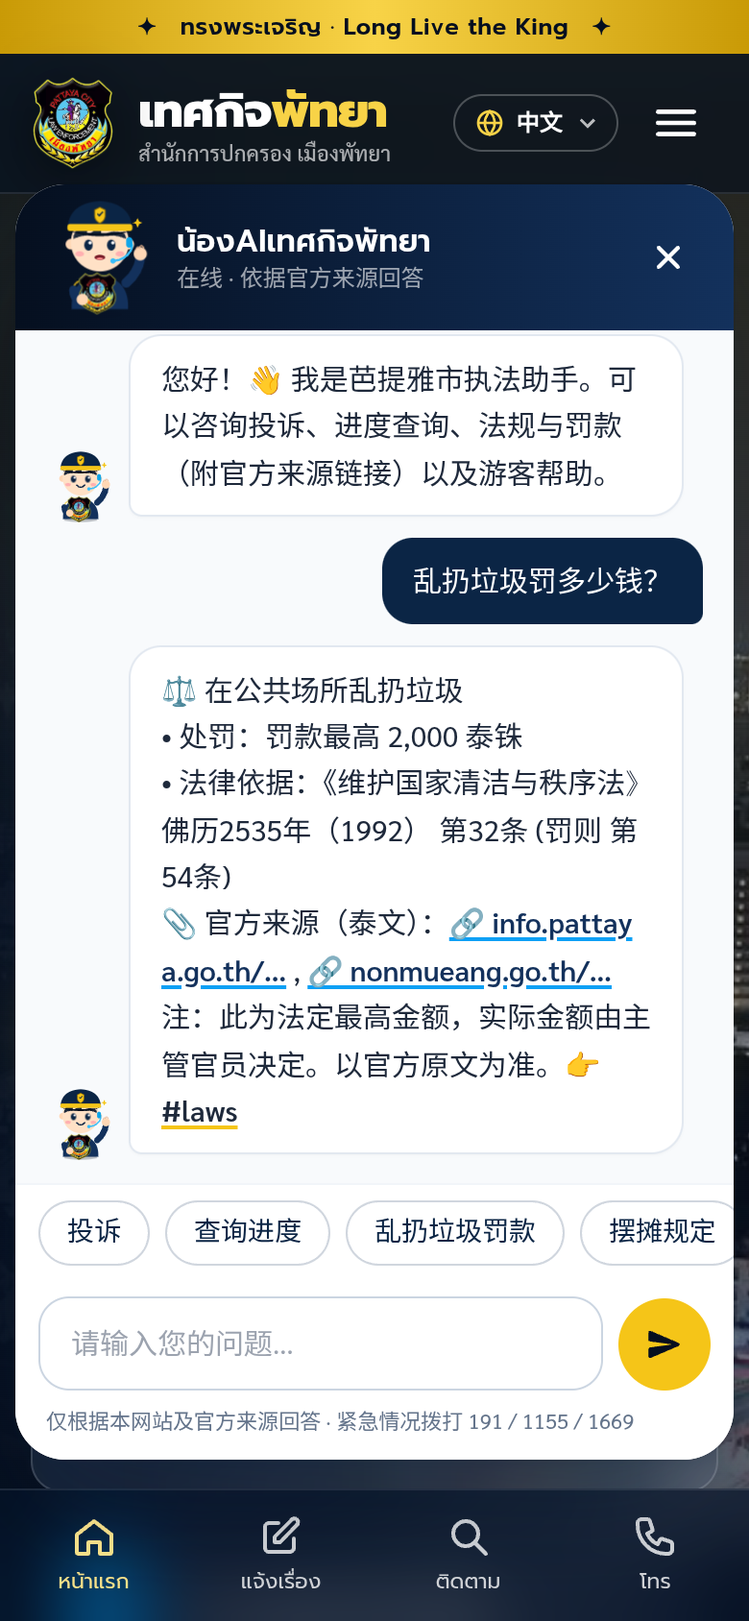
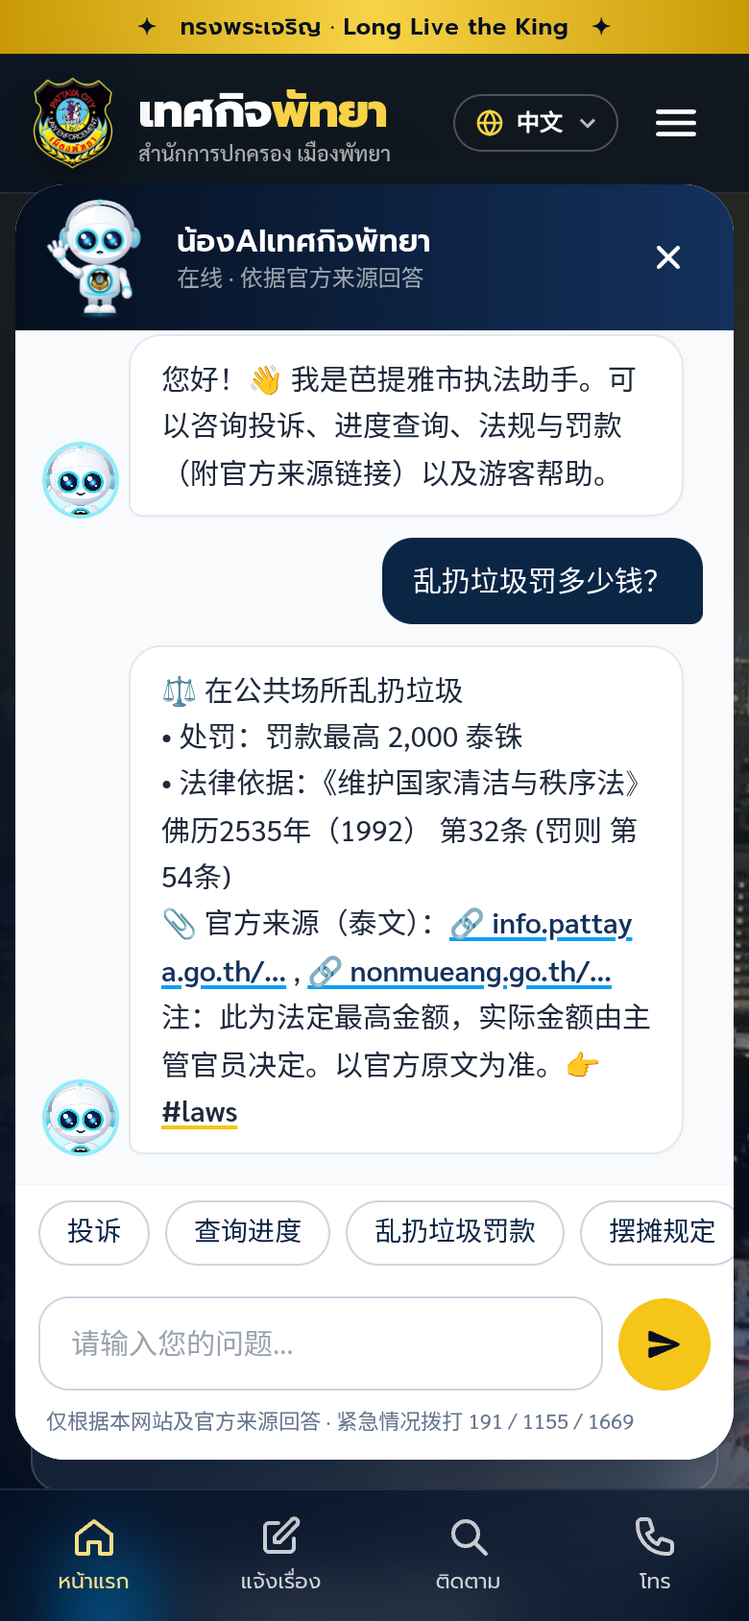
มาสคอตใหม่: หุ่นยนต์น้องAI ต้นฉบับ (SVG หลายเลเยอร์ + แอนิเมชัน) พร้อมตราโล่ที่หน้าอก + mascot.png สำหรับบับเบิลแชท; ปรับการจับคู่คำถามอังกฤษหลายคำ

diff --git a/assets/mascot.js b/assets/mascot.js
@@ -1,47 +1,135 @@
-/* น้องAIเทศกิจพัทยา — มาสคอตต้นฉบับ (ออกแบบใหม่ ไม่ได้ลอกตัวละครของแบรนด์ใด) วาดด้วย SVG + แอนิเมชัน CSS
- * TKPMascot.svg(logoUrl, extraClass) → string   คลาส: wave (โบกมือ) · talking (ขยับปาก) · static (ไม่ลอยขึ้นลง)
- * ตัวละครสวมหมวกเจ้าหน้าที่ ใส่หูฟังผู้ช่วย AI และถือโล่ตราเทศกิจพัทยา (ภาพตราจริงจาก site.logo) */
+/* น้องAIเทศกิจพัทยา — มาสคอตหุ่นยนต์ต้นฉบับ (ออกแบบใหม่ทั้งหมด ไม่ได้ลอก/ตามรอยภาพใด) วาดด้วย SVG หลายเลเยอร์ + แอนิเมชัน CSS
+ * TKPMascot.svg(logoUrl, extraClass) → string
+ *   คลาสเสริม: wave (โบกมือ) · talking (ขยับปาก/ตาเรืองแสงขณะตอบ) · static (หยุดลอย/เอียงหัว)
+ *   แอนิเมชันพื้นฐาน: ลอยขึ้นลง · กะพริบตา · เอียงหัว · ไฟอก/ตาเรืองแสงเป็นจังหวะ · hover = โบกมือ + เอียงหัว + ตายิ้ม
+ * ตราโล่เทศกิจพัทยาที่หน้าอกใช้ภาพจริงจาก site.logo (assets/logo.png) */
 (function () {
   'use strict';
+  var n = 0;
   function esc(s) { return String(s || '').replace(/[&<>"']/g, function (c) { return { '&': '&amp;', '<': '&lt;', '>': '&gt;', '"': '&quot;', "'": '&#39;' }[c]; }); }
+
+  var CSS = [
+    '.mascot{overflow:visible;display:block}',
+    '.mascot *{transform-box:view-box}',
+    '.mascot .m-bob{animation:tmBob 3.6s ease-in-out infinite}',
+    '.mascot .m-shadow{transform-origin:80px 184px;animation:tmShadow 3.6s ease-in-out infinite}',
+    '.mascot .m-head{transform-origin:80px 110px;animation:tmTilt 7s ease-in-out infinite}',
+    '.mascot .m-eye{transform-box:fill-box;transform-origin:center;animation:tmBlink 5s infinite}',
+    '.mascot .m-eye2{animation-delay:.04s}',
+    '.mascot .m-glow{animation:tmGlow 2.6s ease-in-out infinite}',
+    '.mascot .m-arm{transform-origin:47px 121px}',
+    '.mascot .m-arm2{transform-origin:113px 121px;animation:tmSway 3.6s ease-in-out infinite}',
+    '.mascot .m-talk,.mascot .m-happy{opacity:0}',
+    '.mascot.wave .m-arm{animation:tmWave .42s ease-in-out 6 alternate}',
+    '.mascot.talking .m-smile{opacity:0}',
+    '.mascot.talking .m-talk{opacity:1;transform-box:fill-box;transform-origin:center top;animation:tmTalk .16s ease-in-out infinite alternate}',
+    '.mascot.talking .m-glow{animation-duration:.7s}',
+    '.mascot.talking .m-iris{transform-box:fill-box;transform-origin:center;animation:tmIris .32s ease-in-out infinite alternate}',
+    '.mascot.static .m-bob,.mascot.static .m-shadow,.mascot.static .m-head,.mascot.static .m-arm2{animation:none}',
+    '.mascot:hover .m-arm,#chatFab:hover .mascot .m-arm{animation:tmWave .42s ease-in-out 4 alternate}',
+    '.mascot:hover .m-head,#chatFab:hover .mascot .m-head{animation:tmHover .9s ease-in-out both}',
+    '.mascot:hover .m-eyeball,#chatFab:hover .mascot .m-eyeball{opacity:0}',
+    '.mascot:hover .m-happy,#chatFab:hover .mascot .m-happy{opacity:1}',
+    '@keyframes tmBob{0%,100%{transform:translateY(0)}50%{transform:translateY(-6px)}}',
+    '@keyframes tmShadow{0%,100%{transform:scaleX(1);opacity:1}50%{transform:scaleX(.82);opacity:.6}}',
+    '@keyframes tmTilt{0%,100%{transform:rotate(0)}20%{transform:rotate(-4deg)}45%{transform:rotate(0)}70%{transform:rotate(3.5deg)}}',
+    '@keyframes tmHover{0%{transform:rotate(0)}40%{transform:rotate(-9deg) translateY(-2px)}100%{transform:rotate(-6deg)}}',
+    '@keyframes tmBlink{0%,93%,100%{transform:scaleY(1)}96%{transform:scaleY(.08)}}',
+    '@keyframes tmGlow{0%,100%{opacity:.55}50%{opacity:1}}',
+    '@keyframes tmWave{from{transform:rotate(8deg)}to{transform:rotate(-24deg)}}',
+    '@keyframes tmSway{0%,100%{transform:rotate(0)}50%{transform:rotate(4deg)}}',
+    '@keyframes tmTalk{from{transform:scaleY(.3)}to{transform:scaleY(1.1)}}',
+    '@keyframes tmIris{from{transform:scale(1)}to{transform:scale(1.18)}}',
+    '@media (prefers-reduced-motion:reduce){.mascot *{animation:none!important}}'
+  ].join('\n');
+  function injectCss() {
+    if (typeof document === 'undefined' || document.getElementById('tkp-mascot-css')) return;
+    var s = document.createElement('style'); s.id = 'tkp-mascot-css'; s.textContent = CSS;
+    (document.head || document.documentElement).appendChild(s);
+  }
+
+  function eye(cx, id, k) {
+    return '<g class="m-eye' + (k ? ' m-eye2' : '') + '">' +
+      '<circle cx="' + cx + '" cy="70" r="17.5" fill="#dff7fd"/>' +
+      '<circle class="m-glow" cx="' + cx + '" cy="70" r="16" fill="none" stroke="#22d3ee" stroke-width="3.2" filter="url(#gl' + id + ')"/>' +
+      '<circle cx="' + cx + '" cy="70" r="14.2" fill="url(#ey' + id + ')"/>' +
+      '<g class="m-eyeball"><circle class="m-iris" cx="' + cx + '" cy="71" r="7.2" fill="url(#ir' + id + ')"/>' +
+      '<circle cx="' + (cx - 5) + '" cy="64" r="4.2" fill="#fff"/><circle cx="' + (cx + 5) + '" cy="76" r="1.9" fill="#fff" opacity=".9"/></g>' +
+      '<path class="m-happy" d="M' + (cx - 8) + ' 73 Q' + cx + ' 63 ' + (cx + 8) + ' 73" stroke="#7dd3fc" stroke-width="3.4" fill="none" stroke-linecap="round"/>' +
+      '</g>';
+  }
+
   function svg(logo, cls) {
+    injectCss();
     logo = esc(logo || 'assets/logo.png');
-    return '<svg class="mascot ' + esc(cls || '') + '" viewBox="0 0 120 140" width="100%" height="100%" role="img" aria-label="น้องAIเทศกิจพัทยา">' +
-      '<ellipse class="m-shadow" cx="60" cy="135" rx="30" ry="4.5" fill="#050f1f" opacity=".25"/>' +
+    var id = 'm' + (++n) + Math.random().toString(36).slice(2, 6);
+    var W = 'url(#wh' + id + ')';
+    return '<svg class="mascot ' + esc(cls || '') + '" viewBox="0 0 160 190" width="100%" height="100%" role="img" aria-label="น้องAIเทศกิจพัทยา">' +
+      '<defs>' +
+        '<radialGradient id="wh' + id + '" cx="36%" cy="28%" r="78%"><stop offset="0" stop-color="#ffffff"/><stop offset=".55" stop-color="#eef3f8"/><stop offset=".85" stop-color="#cfd9e5"/><stop offset="1" stop-color="#aebdcf"/></radialGradient>' +
+        '<radialGradient id="ey' + id + '" cx="45%" cy="40%" r="65%"><stop offset="0" stop-color="#1d3b7a"/><stop offset=".6" stop-color="#0b1730"/><stop offset="1" stop-color="#030712"/></radialGradient>' +
+        '<radialGradient id="ir' + id + '" cx="50%" cy="50%" r="50%"><stop offset="0" stop-color="#a5f3fc"/><stop offset=".45" stop-color="#38bdf8"/><stop offset="1" stop-color="#1e40af" stop-opacity="0"/></radialGradient>' +
+        '<linearGradient id="mt' + id + '" x1="0" y1="0" x2="0" y2="1"><stop offset="0" stop-color="#e2e8f0"/><stop offset="1" stop-color="#8a9bb2"/></linearGradient>' +
+        '<radialGradient id="sh' + id + '" cx="50%" cy="50%" r="50%"><stop offset="0" stop-color="#22d3ee" stop-opacity=".55"/><stop offset=".55" stop-color="#0891b2" stop-opacity=".22"/><stop offset="1" stop-color="#0891b2" stop-opacity="0"/></radialGradient>' +
+        '<filter id="gl' + id + '" x="-50%" y="-50%" width="200%" height="200%"><feGaussianBlur stdDeviation="1.6" result="b"/><feMerge><feMergeNode in="b"/><feMergeNode in="SourceGraphic"/></feMerge></filter>' +
+        '<filter id="sf' + id + '" x="-20%" y="-20%" width="140%" height="140%"><feGaussianBlur stdDeviation="1.4"/></filter>' +
+      '</defs>' +
+      '<ellipse class="m-shadow" cx="80" cy="184" rx="38" ry="6" fill="url(#sh' + id + ')"/>' +
       '<g class="m-bob">' +
-        // body (uniform)
-        '<path d="M28 134 Q26 100 60 95 Q94 100 92 134 Z" fill="#13315C"/>' +
-        '<path d="M48 97 L60 110 L72 97 Z" fill="#fff"/><path d="M57 104 h6 l-1.5 10 h-3 Z" fill="#F5C518"/>' +
-        '<path d="M28 120 Q28 106 36 102" stroke="#F5C518" stroke-width="2" fill="none" opacity=".7"/>' +
-        // right arm (waving)
-        '<g class="m-arm"><path d="M90 104 Q104 92 106 76" stroke="#13315C" stroke-width="11" stroke-linecap="round" fill="none"/>' +
-          '<circle cx="106" cy="71" r="7.5" fill="#FFD7B5"/><path d="M101 66 q2-5 5-1 M105 64 q2-5 5 0" stroke="#e8b48f" stroke-width="1.4" fill="none" stroke-linecap="round"/></g>' +
-        // shield (official logo) held at chest + left hand
-        '<image href="' + logo + '" x="34" y="92" width="46" height="48" preserveAspectRatio="xMidYMid meet"/>' +
-        '<path d="M30 112 Q30 122 38 124" stroke="#13315C" stroke-width="10" stroke-linecap="round" fill="none"/>' +
-        '<circle cx="40" cy="123" r="6.5" fill="#FFD7B5"/>' +
-        // head
-        '<circle cx="27" cy="60" r="6" fill="#FFD7B5"/><circle cx="93" cy="60" r="6" fill="#FFD7B5"/>' +
-        '<circle cx="60" cy="58" r="33" fill="#FFE1C6"/>' +
-        '<path d="M30 50 Q34 38 48 40 Q44 46 46 50 Q54 42 62 44 Q60 48 64 50 Q74 42 88 48 Q90 52 90 54 Q76 48 60 50 Q42 48 30 54 Z" fill="#1e293b"/>' +
-        // cap
-        '<path d="M23 44 Q24 13 60 11 Q96 13 97 44 Z" fill="#0B2545"/>' +
-        '<rect x="23" y="37" width="74" height="8" rx="3" fill="#F5C518"/>' +
-        '<path d="M25 45 Q60 57 95 45 Q60 50 25 45 Z" fill="#050f1f"/>' +
-        '<path d="M60 18 l6 3 v6 q0 6 -6 9 q-6 -3 -6 -9 v-6 Z" fill="#F5C518" stroke="#8F6B00" stroke-width="1"/>' +
-        '<path d="M57.5 25.5 l2 2 l3.5 -4" stroke="#0B2545" stroke-width="1.6" fill="none" stroke-linecap="round"/>' +
-        // eyes (blink)
-        '<g class="m-eye"><ellipse cx="47" cy="61" rx="4.8" ry="6.2" fill="#0B2545"/><circle cx="48.8" cy="58.4" r="1.8" fill="#fff"/></g>' +
-        '<g class="m-eye"><ellipse cx="73" cy="61" rx="4.8" ry="6.2" fill="#0B2545"/><circle cx="74.8" cy="58.4" r="1.8" fill="#fff"/></g>' +
-        '<ellipse cx="37" cy="71" rx="5" ry="3" fill="#FF8FA3" opacity=".6"/><ellipse cx="83" cy="71" rx="5" ry="3" fill="#FF8FA3" opacity=".6"/>' +
-        // mouth: smile + talking
-        '<path class="m-smile" d="M52.5 72 Q60 80 67.5 72" stroke="#0B2545" stroke-width="2.6" fill="none" stroke-linecap="round"/>' +
-        '<g class="m-talk"><ellipse cx="60" cy="75" rx="6" ry="5" fill="#7a1f2b"/><ellipse cx="60" cy="77.5" rx="3.6" ry="2" fill="#ff8a8a"/></g>' +
-        // AI headset (sky blue)
-        '<path d="M93 54 Q99 60 95 68 Q88 78 76 79" stroke="#38bdf8" stroke-width="2.6" fill="none" stroke-linecap="round"/>' +
-        '<circle cx="75" cy="79" r="3" fill="#38bdf8"/><rect x="90" y="52" width="7" height="12" rx="3.5" fill="#0ea5e9"/>' +
-        '<path d="M103 30 l1.6 4 4 1.6 -4 1.6 -1.6 4 -1.6 -4 -4 -1.6 4 -1.6 Z" fill="#F5C518"/>' +
+        // legs + feet
+        '<rect x="62" y="150" width="15" height="24" rx="7.5" fill="url(#mt' + id + ')"/><rect x="83" y="150" width="15" height="24" rx="7.5" fill="url(#mt' + id + ')"/>' +
+        '<path d="M56 182 Q55 170 69.5 169 Q83 170 82 182 Z" fill="' + W + '" stroke="#b8c5d6" stroke-width=".8"/>' +
+        '<path d="M78 182 Q77 170 90.5 169 Q105 170 104 182 Z" fill="' + W + '" stroke="#b8c5d6" stroke-width=".8"/>' +
+        '<path class="m-glow" d="M58 181.5 H80 M80 181.5 H102" stroke="#22d3ee" stroke-width="2" stroke-linecap="round" filter="url(#gl' + id + ')"/>' +
+        // resting arm (right side of image)
+        '<g class="m-arm2"><circle cx="113" cy="121" r="8.5" fill="url(#mt' + id + ')"/>' +
+          '<path d="M114 124 Q121 136 122 146" stroke="#e9eef5" stroke-width="12" stroke-linecap="round" fill="none"/>' +
+          '<path d="M114 124 Q121 136 122 146" stroke="#ffffff" stroke-width="5" stroke-linecap="round" fill="none" opacity=".7" transform="translate(-1.5 -1)"/>' +
+          '<circle class="m-glow" cx="122" cy="148" r="6.4" fill="none" stroke="#22d3ee" stroke-width="2" filter="url(#gl' + id + ')"/>' +
+          '<circle cx="122.5" cy="152.5" r="7.2" fill="' + W + '" stroke="#b8c5d6" stroke-width=".8"/></g>' +
+        // torso
+        '<path d="M50 118 Q50 107 80 107 Q110 107 110 118 L111 145 Q111 161 80 161 Q49 161 49 145 Z" fill="' + W + '" stroke="#b8c5d6" stroke-width=".9"/>' +
+        '<path d="M56 150 Q80 160 104 150" stroke="#22d3ee" stroke-width="1.6" fill="none" class="m-glow" filter="url(#gl' + id + ')"/>' +
+        '<ellipse cx="64" cy="118" rx="9" ry="4" fill="#fff" opacity=".9" filter="url(#sf' + id + ')"/>' +
+        // chest badge with official logo
+        '<circle cx="80" cy="133" r="19" fill="#0b1f3a"/>' +
+        '<circle class="m-glow" cx="80" cy="133" r="19" fill="none" stroke="#22d3ee" stroke-width="2.6" filter="url(#gl' + id + ')"/>' +
+        '<circle cx="80" cy="133" r="16.2" fill="#f8fbff"/>' +
+        '<image href="' + logo + '" x="66" y="117.5" width="28" height="31" preserveAspectRatio="xMidYMid meet"/>' +
+        // head group
+        '<g class="m-head">' +
+          '<rect x="72" y="100" width="16" height="10" rx="4" fill="url(#mt' + id + ')"/>' +
+          // ear pieces
+          '<ellipse cx="27.5" cy="66" rx="10" ry="16" fill="url(#mt' + id + ')"/><ellipse cx="132.5" cy="66" rx="10" ry="16" fill="url(#mt' + id + ')"/>' +
+          '<ellipse class="m-glow" cx="25.5" cy="66" rx="5" ry="10" fill="none" stroke="#22d3ee" stroke-width="2.4" filter="url(#gl' + id + ')"/>' +
+          '<ellipse class="m-glow" cx="134.5" cy="66" rx="5" ry="10" fill="none" stroke="#22d3ee" stroke-width="2.4" filter="url(#gl' + id + ')"/>' +
+          // head shell
+          '<ellipse cx="80" cy="62" rx="51" ry="45" fill="' + W + '" stroke="#b8c5d6" stroke-width=".9"/>' +
+          // face plate
+          '<path d="M38 70 Q38 44 80 44 Q122 44 122 70 Q122 98 80 98 Q38 98 38 70 Z" fill="#fbfdff" stroke="#d6e0eb" stroke-width="1"/>' +
+          // headband
+          '<path d="M29 54 Q34 12 80 11 Q126 12 131 54" stroke="url(#mt' + id + ')" stroke-width="7" fill="none" stroke-linecap="round"/>' +
+          '<path d="M33 50 Q38 17 80 16" stroke="#fff" stroke-width="2" fill="none" stroke-linecap="round" opacity=".8"/>' +
+          '<circle class="m-glow" cx="80" cy="11" r="3.4" fill="#67e8f9" filter="url(#gl' + id + ')"/>' +
+          // gloss highlight
+          '<ellipse cx="58" cy="30" rx="15" ry="6.5" fill="#fff" opacity=".95" transform="rotate(-18 58 30)" filter="url(#sf' + id + ')"/>' +
+          eye(60, id, 0) + eye(100, id, 1) +
+          '<ellipse cx="45" cy="86" rx="6" ry="3.4" fill="#fda4af" opacity=".5"/><ellipse cx="115" cy="86" rx="6" ry="3.4" fill="#fda4af" opacity=".5"/>' +
+          '<path class="m-smile" d="M74 88 Q80 93.5 86 88" stroke="#1e293b" stroke-width="2.4" fill="none" stroke-linecap="round"/>' +
+          '<g class="m-talk"><ellipse cx="80" cy="90.5" rx="5" ry="4.2" fill="#0f172a"/><ellipse cx="80" cy="92.6" rx="3" ry="1.5" fill="#22d3ee" opacity=".85"/></g>' +
+        '</g>' +
+        // waving arm (left side of image)
+        '<g class="m-arm"><circle cx="47" cy="121" r="8.5" fill="url(#mt' + id + ')"/>' +
+          '<path d="M45 119 Q30 112 21 99" stroke="#e9eef5" stroke-width="12" stroke-linecap="round" fill="none"/>' +
+          '<path d="M45 119 Q30 112 21 99" stroke="#ffffff" stroke-width="5" stroke-linecap="round" fill="none" opacity=".7" transform="translate(1 -1.5)"/>' +
+          '<ellipse class="m-glow" cx="20" cy="96" rx="7" ry="2.6" fill="none" stroke="#22d3ee" stroke-width="2" filter="url(#gl' + id + ')" transform="rotate(-30 20 96)"/>' +
+          '<g fill="' + W + '" stroke="#b8c5d6" stroke-width=".8" transform="translate(-11 5) rotate(-12 28 84)">' +
+            '<rect x="16" y="68" width="5.6" height="13" rx="2.8" transform="rotate(-22 19 80)"/>' +
+            '<rect x="22.5" y="64" width="5.6" height="14" rx="2.8" transform="rotate(-6 25 78)"/>' +
+            '<rect x="29" y="65" width="5.6" height="13.5" rx="2.8" transform="rotate(10 31 78)"/>' +
+            '<rect x="35" y="71" width="5.4" height="11" rx="2.7" transform="rotate(34 37 82)"/>' +
+            '<ellipse cx="28" cy="84" rx="10" ry="8.5"/></g></g>' +
       '</g></svg>';
   }
-  window.TKPMascot = { svg: svg };
+  window.TKPMascot = { svg: svg, png: 'assets/mascot.png' };
 })();

diff --git a/assets/app.js b/assets/app.js
@@ -348,6 +348,11 @@
   function avatarHtml(cls) {
     return useMascot() ? window.TKPMascot.svg(logoUrl, cls) : '<img src="' + esc(safeUrl(bot.avatar || logoUrl)) + '" alt="" class="w-full h-full object-contain rounded-full bg-gradient-to-br from-gold-300 to-gold-500 p-1">';
   }
+  // อวาตาร์ในบับเบิลแชท: ภาพนิ่ง assets/mascot.png (เบา) · ถ้าปิดมาสคอตใช้รูปที่อัปโหลดเอง/โลโก้
+  function bubbleAvatar() {
+    if (!useMascot()) return '<span class="w-9 h-9 shrink-0">' + avatarHtml('static') + '</span>';
+    return '<span class="w-9 h-9 shrink-0 rounded-full ring-2 ring-cyan-300/70 shadow-sm" role="img" aria-label="" style="background:url(' + esc((window.TKPMascot && window.TKPMascot.png) || 'assets/mascot.png') + ') 50% -3px/140% auto no-repeat,linear-gradient(#f0f9ff,#cffafe)"></span>';
+  }
   function figs() { return $$('#chatFabFig .mascot, #chatHeadFig .mascot, #chatHeroFig .mascot'); }
   function talk(on) { figs().forEach(function (m) { m.classList.toggle('talking', !!on); }); }
   function wave() { figs().forEach(function (m) { m.classList.remove('wave'); void m.getBoundingClientRect(); m.classList.add('wave'); setTimeout(function () { m.classList.remove('wave'); }, 2100); }); }
@@ -376,7 +381,7 @@
       if (useMascot()) {
         var hero = document.createElement('div');
         hero.className = 'flex flex-col items-center text-center pt-1 pb-2';
-        hero.innerHTML = '<span id="chatHeroFig" class="block w-28 h-32">' + window.TKPMascot.svg(logoUrl, '') + '</span><p class="mt-1 font-head font-semibold text-navy-900 bot-name">' + esc(bot.name || 'น้องAI') + '</p><p id="chatHeroHi" class="text-xs text-slate-500"></p>';
+        hero.innerHTML = '<span id="chatHeroFig" class="block w-32 h-36" style="background:radial-gradient(circle at 50% 58%,rgba(103,232,249,.35) 0,rgba(186,230,253,.25) 38%,transparent 66%)">' + window.TKPMascot.svg(logoUrl, '') + '</span><p class="mt-1 font-head font-semibold text-navy-900 bot-name">' + esc(bot.name || 'น้องAI') + '</p><p id="chatHeroHi" class="text-xs text-slate-500"></p>';
         $('#chatLog').appendChild(hero);
       }
       greetEl = addMsg('bot', greeting()); chatReady = true;
@@ -390,7 +395,7 @@
     wrap.className = who === 'user' ? 'flex justify-end' : 'flex gap-2 items-end';
     wrap.innerHTML = who === 'user'
       ? '<div class="max-w-[82%] rounded-2xl rounded-br-md bg-navy-900 text-white px-4 py-2.5 text-[15px] leading-relaxed">' + esc(text).replace(/\n/g, '<br>') + '</div>'
-      : '<span class="w-9 h-10 shrink-0 -mb-1">' + avatarHtml('static') + '</span><div class="max-w-[84%] min-w-0 rounded-2xl rounded-bl-md bg-white ring-1 ring-slate-200 text-slate-800 px-4 py-2.5 text-[15px] leading-relaxed shadow-sm break-words">' + linkify(text) + '</div>';
+      : bubbleAvatar() + '<div class="max-w-[84%] min-w-0 rounded-2xl rounded-bl-md bg-white ring-1 ring-slate-200 text-slate-800 px-4 py-2.5 text-[15px] leading-relaxed shadow-sm break-words">' + linkify(text) + '</div>';
     $('#chatLog').appendChild(wrap); $('#chatLog').scrollTop = 1e9;
     $$('.chat-link', wrap).forEach(function (a) { a.addEventListener('click', function () { if (window.innerWidth < 640) openChat(false); }); });
     return wrap;

diff --git a/index.html b/index.html
@@ -75,27 +75,10 @@ tailwind.config = {
   .typing span { width:7px; height:7px; border-radius:99px; background:#94a3b8; display:inline-block; animation: blink 1.2s infinite both; }
   .typing span:nth-child(2){animation-delay:.2s} .typing span:nth-child(3){animation-delay:.4s}
   @keyframes blink { 0%,80%,100%{opacity:.25; transform:translateY(0)} 40%{opacity:1; transform:translateY(-3px)} }
-  /* ---- mascot น้องAI (original character, CSS + SVG) ---- */
-  .mascot{overflow:visible}
-  .mascot .m-bob{animation:mBob 3.2s ease-in-out infinite;transform-origin:60px 130px;transform-box:view-box}
-  .mascot .m-eye{transform-box:fill-box;transform-origin:center;animation:mBlink 4.6s infinite}
-  .mascot .m-arm{transform-box:view-box;transform-origin:96px 98px}
-  .mascot.wave .m-arm{animation:mWave .5s ease-in-out 4 alternate}
-  .mascot .m-talk{opacity:0}
-  .mascot.talking .m-smile{opacity:0}
-  .mascot.talking .m-talk{opacity:1;transform-box:fill-box;transform-origin:center;animation:mTalk .18s ease-in-out infinite alternate}
-  .mascot .m-shadow{transform-box:fill-box;transform-origin:center;animation:mShadow 3.2s ease-in-out infinite}
-  .mascot.static .m-bob,.mascot.static .m-shadow{animation:none}
-  @keyframes mBob{0%,100%{transform:translateY(0)}50%{transform:translateY(-5px)}}
-  @keyframes mShadow{0%,100%{transform:scaleX(1);opacity:.25}50%{transform:scaleX(.85);opacity:.15}}
-  @keyframes mBlink{0%,92%,100%{transform:scaleY(1)}95%{transform:scaleY(.1)}}
-  @keyframes mWave{from{transform:rotate(10deg)}to{transform:rotate(-28deg)}}
-  @keyframes mTalk{from{transform:scaleY(.35)}to{transform:scaleY(1)}}
+  /* ---- mascot น้องAI: CSS อยู่ใน assets/mascot.js ---- */
   .fab-mascot{filter:drop-shadow(0 8px 14px rgba(5,15,31,.35))}
-  #chatFab:hover .mascot .m-arm{animation:mWave .5s ease-in-out 2 alternate}
   .chat-bubble-hint{animation:hintIn .4s ease both}
   @keyframes hintIn{from{opacity:0;transform:translateY(6px) scale(.95)}to{opacity:1;transform:none}}
-  @media (prefers-reduced-motion:reduce){.mascot *{animation:none!important}}
   .no-mobilebar footer{padding-bottom:0!important} .no-mobilebar #chatFab{bottom:16px} .no-mobilebar #chatPanel{bottom:12px}
   .chat-panel { transform-origin: bottom right; transition: transform .25s ease, opacity .25s ease; }
   .chat-panel.closed { transform: scale(.92) translateY(12px); opacity:0; pointer-events:none; }

diff --git a/chatbot.js b/chatbot.js
@@ -69,9 +69,15 @@ function knowledgeEntries(c) {
 }
 
 // คำภาษาอังกฤษต้องตรงทั้งคำ (กัน “tree” ไปตรงกับ “street”) ส่วนไทย/จีน/รัสเซียใช้การมีอยู่ในข้อความ (รองรับคำต่อท้าย/ผันรูป)
+const STOP = new Set(['the', 'and', 'for', 'with', 'what', 'how', 'can', 'fine', 'much']);
 function hit(m, kk) {
   if (!kk) return false;
-  if (/^[a-z0-9 ]+$/.test(kk)) return (' ' + m + ' ').includes(' ' + kk + ' ') || (kk.length >= 5 && m.includes(kk));
+  if (/^[a-z0-9 ]+$/.test(kk)) {
+    if ((' ' + m + ' ').includes(' ' + kk + ' ') || (kk.length >= 5 && m.includes(kk))) return true;
+    // วลีหลายคำ: ถือว่าตรงเมื่อพบทุกคำสำคัญ (เช่น "park my motorbike on the sidewalk" ↔ "park on sidewalk")
+    const ws = kk.split(' ').filter(w => w.length > 2 && !STOP.has(w));
+    return ws.length > 1 && ws.every(w => new RegExp('\\b' + w + '(s|ing|ed)?\\b').test(m));
+  }
   return m.includes(kk);
 }
 function score(message, e) {

diff --git a/shot2.py b/shot2.py
@@ -5,6 +5,17 @@ D = '/workspace/tesakij-pattaya/'
 URL = sys.argv[1] if len(sys.argv) > 1 else 'http://localhost:3000/'
 PW = os.environ.get('ADMIN_PASSWORD', 'demo1234')
 PREP = "() => document.querySelectorAll('.reveal').forEach(e => e.classList.add('is-in'))"
+MASCOT_CARD = """()=>{const M=(c)=>TKPMascot.svg('assets/logo.png',c);
+const st=(h,t)=>'<div style="text-align:center"><div style="width:150px;height:178px;margin:auto">'+h+'</div><p style="margin:6px 0 0;font:600 15px Prompt;color:#0b2545">'+t+'</p></div>';
+document.body.innerHTML='<div style="height:100vh;display:flex;align-items:center;gap:40px;padding:0 60px;box-sizing:border-box;background:radial-gradient(circle at 28% 50%,#e0fbff 0,#d5ecf8 35%,#b9d7ec 100%);font-family:Sarabun">'+
+'<div style="width:470px;height:560px;flex:none">'+M('static')+'</div>'+
+'<div><p style="font:700 34px Prompt;color:#0b2545;margin:0">น้องAIเทศกิจพัทยา</p><p style="font:400 17px Sarabun;color:#334155;margin:6px 0 26px">หุ่นยนต์ผู้ช่วยต้นฉบับ · SVG หลายเลเยอร์ + CSS แอนิเมชัน · ตราโล่เทศกิจพัทยาที่หน้าอก</p>'+
+'<div style="display:flex;gap:26px;align-items:flex-end">'+st(M('static talking'),'กำลังพูด')+st(M('static happy'),'ยิ้ม (hover)')+
+'<div style="text-align:center"><div style="display:flex;gap:10px;align-items:center;justify-content:center;height:178px"><span style="width:44px;height:44px;border-radius:50%;overflow:hidden;background:linear-gradient(#f0f9ff,#cffafe);box-shadow:0 0 0 2px #67e8f9"><img src="assets/mascot.png" style="width:100%;transform:scale(1.55);transform-origin:top;margin-top:2px"></span><span style="width:88px;height:104px"><img src="assets/mascot.png" style="width:100%"></span></div><p style="margin:6px 0 0;font:600 15px Prompt;color:#0b2545">ภาพนิ่ง mascot.png</p></div></div></div></div>';
+document.querySelectorAll('.mascot.happy .m-eyeball').forEach(e=>e.style.opacity=0);document.querySelectorAll('.mascot.happy .m-happy').forEach(e=>e.style.opacity=1);
+document.querySelectorAll('.mascot.happy .m-head').forEach(e=>{e.style.animation='none';e.style.transform='rotate(-7deg)'});
+document.querySelectorAll('.mascot.talking .m-talk').forEach(e=>{e.style.animation='none'});
+}"""
 async def main():
     async with async_playwright() as p:
         b = await p.chromium.launch(executable_path='/usr/bin/google-chrome', args=['--use-angle=swiftshader', '--enable-unsafe-swiftshader', '--ignore-gpu-blocklist'])
@@ -26,14 +37,22 @@ async def main():
         pg = await b.new_page(viewport={'width': 390, 'height': 844}, device_scale_factor=2, is_mobile=True, has_touch=True)
         pg.on('pageerror', lambda e: errs.append(str(e)))
         await pg.goto(URL, wait_until='networkidle'); await pg.evaluate('document.fonts.ready')
-        await pg.evaluate("localStorage.setItem('tkpLang','zh')"); await pg.reload(wait_until='networkidle'); await pg.evaluate('document.fonts.ready')
+        await pg.evaluate("localStorage.setItem('tkpLang','th')"); await pg.reload(wait_until='networkidle'); await pg.evaluate('document.fonts.ready')
         await pg.wait_for_timeout(600)
-        await pg.screenshot(path='/tmp/fab.png')
-        await pg.evaluate("window.__openChat(true)"); await pg.wait_for_timeout(1100)
+        await pg.evaluate("window.__openChat(true)"); await pg.wait_for_timeout(700)
+        await pg.evaluate("window.__chatSend('เวลาทำการ')"); await pg.wait_for_timeout(1500)
+        await pg.evaluate("document.querySelector('#chatLog').scrollTop=0"); await pg.wait_for_timeout(300)
         await pg.screenshot(path=D + 'preview-chatbot.png')
+        await pg.evaluate("localStorage.setItem('tkpLang','zh')"); await pg.reload(wait_until='networkidle'); await pg.evaluate('document.fonts.ready')
+        await pg.evaluate("window.__openChat(true)"); await pg.wait_for_timeout(900)
         await pg.evaluate("window.__chatSend('乱扔垃圾罚多少钱？')"); await pg.wait_for_timeout(1500)
         await pg.screenshot(path=D + 'preview-chatbot-answer.png')
         await pg.close()
+        # mascot closeup (states)
+        pg = await b.new_page(viewport={'width': 1200, 'height': 700}, device_scale_factor=1)
+        await pg.goto(URL, wait_until='networkidle'); await pg.evaluate('document.fonts.ready')
+        await pg.evaluate(MASCOT_CARD); await pg.wait_for_timeout(900)
+        await pg.screenshot(path=D + 'preview-mascot.png'); await pg.close()
         # desktop chatbot with mascot + English
         pg = await b.new_page(viewport={'width': 1280, 'height': 860})
         await pg.goto(URL, wait_until='networkidle'); await pg.evaluate('document.fonts.ready')

diff --git a/tools/make_mascot_png.py b/tools/make_mascot_png.py
@@ -1,0 +1,17 @@
+"""สร้าง assets/mascot.png (ภาพนิ่งพื้นโปร่งใส) จาก assets/mascot.js — ต้องเปิดเซิร์ฟเวอร์ที่ :3000 ก่อน
+python3 tools/make_mascot_png.py"""
+import asyncio, os
+from playwright.async_api import async_playwright
+ROOT = os.path.dirname(os.path.dirname(os.path.abspath(__file__)))
+async def main():
+    async with async_playwright() as p:
+        b = await p.chromium.launch(channel='chrome')
+        pg = await b.new_page(viewport={'width': 512, 'height': 608}, device_scale_factor=1)
+        await pg.goto('http://localhost:3000/', wait_until='networkidle')
+        await pg.evaluate("""()=>{document.documentElement.style.background='transparent';document.body.style.cssText='margin:0;background:transparent';
+          document.body.innerHTML='<div id=m style="width:512px;height:608px">'+TKPMascot.svg('assets/logo.png','static')+'</div>';
+          document.querySelectorAll('.mascot *').forEach(e=>e.style.animation='none');
+          return new Promise(r=>{const i=document.querySelector('#m image');if(i)setTimeout(r,500);else r();});}""")
+        await pg.locator('#m').screenshot(path=os.path.join(ROOT, 'assets', 'mascot.png'), omit_background=True)
+        await b.close()
+asyncio.run(main())
